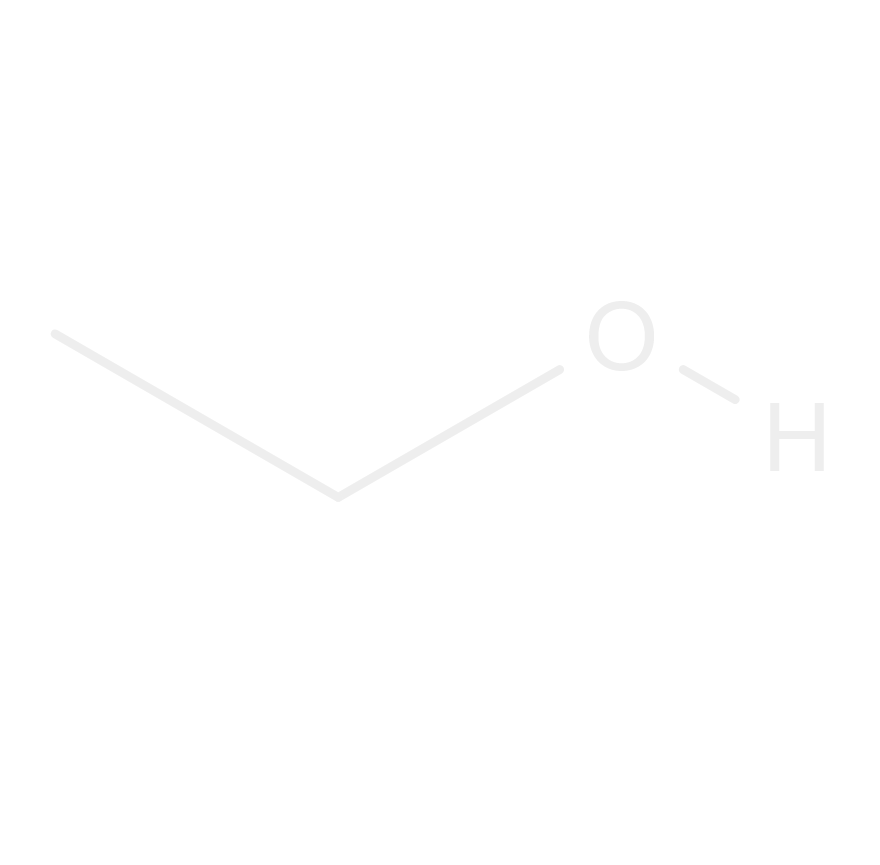
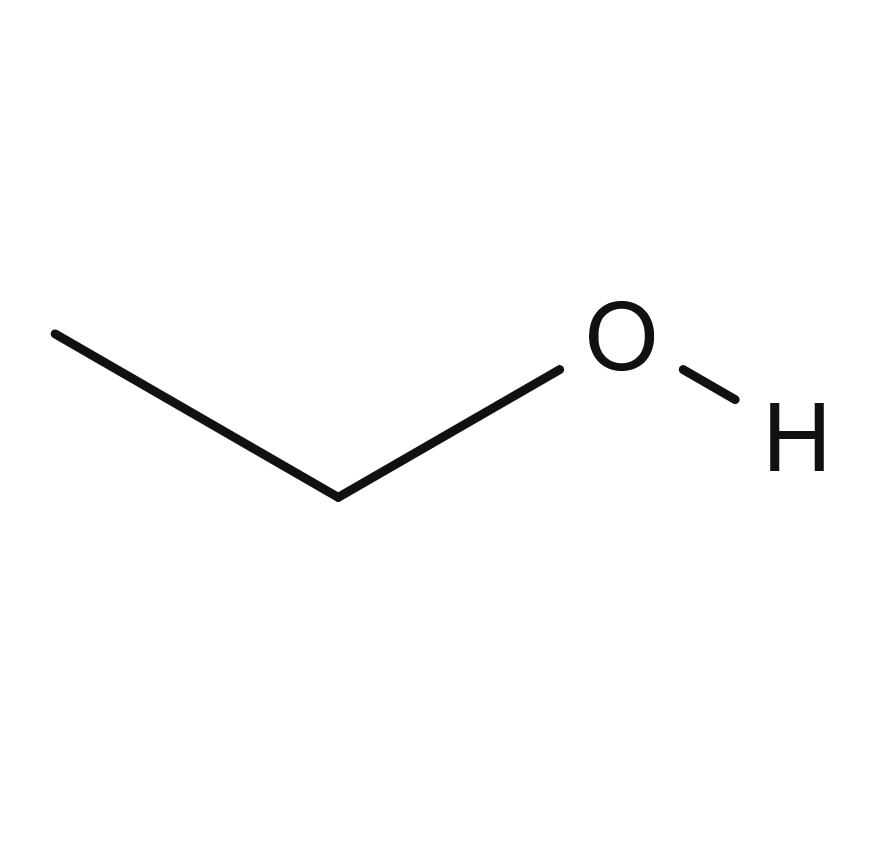
commit

diff --git a/index.html b/index.html
@@ -35,6 +35,14 @@
                     </tr>
                     <tr>
                         <td>
+                            <p><strong>Numeric ID:</strong></p>
+                        </td>
+                        <td>
+                            <p id="numeric_id"></p>
+                        </td>
+                    </tr>
+                    <tr>
+                        <td>
                             <p><strong>Chemical Formula:</strong></p>
                         </td>
                         <td>
@@ -51,10 +59,26 @@
                     </tr>
                     <tr>
                         <td>
-                            <p><strong>Standard State:</strong></p>
+                            <p><strong>Standard Phase:</strong></p>
                         </td>
                         <td>
-                            <p id="standard_state"></p>
+                            <p id="standard_phase"></p>
+                        </td>
+                    </tr>
+                    <tr>
+                        <td>
+                            <p><strong>Composition:</strong></p>
+                        </td>
+                        <td>
+                            <p id="composition"></p>
+                        </td>
+                    </tr>
+                    <tr>
+                        <td>
+                            <p><strong>Stability:</strong></p>
+                        </td>
+                        <td>
+                            <p id="stability"></p>
                         </td>
                     </tr>
                     <tr>
@@ -62,7 +86,11 @@
                     </tr>
                     <tr>
                         <td id="fire_diamond" colspan="2">
-                            <img alt="Fire Diamond" src="element/fire_diamond.png">
+                            <img alt="Fire Diamond" src="../element/fire_diamond.png">
+                            <p id="fire_diamond_health">3</p>
+                            <p id="fire_diamond_fire">2</p>
+                            <p id="fire_diamond_reactivity">2</p>
+                            <p id="fire_diamond_specific">OXY</p>
                         </td>
                     </tr>
                 </tbody>
@@ -72,21 +100,37 @@
             const params = new URLSearchParams(window.location.search);
             const chemical = params.get('chemical');
             const chemicalData = {
-                Ethanol: {
+                "Ethanol": {
                     common_names: 'Ethyl Alcohol',
+                    numeric_id: '1004000',
                     chemical_formula: 'C₂H₆O',
-                    image_path: 'structure/ethanol.png',
+                    image_path: '../structure/ethanol.png',
                     standard_amount: '9 mol',
-                    standard_state: 'Liquid'
+                    standard_phase: 'Liquid',
+                    composition: '6¹H; 2¹²C; ¹⁶O',
+                    stability: 'Stable'
+                },
+                "Ethanoic Acid": {
+                    common_names: 'Ethyl Alcohol',
+                    numeric_id: '1004000',
+                    chemical_formula: 'C₂H₆O',
+                    image_path: '../structure/ethanoic_acid.png',
+                    standard_amount: '9 mol',
+                    standard_phase: 'Liquid',
+                    composition: '6¹H; 2¹²C; ¹⁶O',
+                    stability: 'Stable'
                 }
             };
             if (chemical && chemicalData[chemical]) {
                 document.getElementById('name').textContent = chemical;
                 document.getElementById('structure').src = chemicalData[chemical].image_path;
+                document.getElementById('numeric_id').textContent = chemicalData[chemical].numeric_id;
                 document.getElementById('common_names').textContent = chemicalData[chemical].common_names;
                 document.getElementById('chemical_formula').textContent = chemicalData[chemical].chemical_formula;
                 document.getElementById('standard_amount').textContent = chemicalData[chemical].standard_amount;
-                document.getElementById('standard_state').textContent = chemicalData[chemical].standard_state;
+                document.getElementById('standard_phase').textContent = chemicalData[chemical].standard_phase;
+                document.getElementById('composition').textContent = chemicalData[chemical].composition;
+                document.getElementById('stability').textContent = chemicalData[chemical].stability;
                 const link = document.createElement('link');
                 link.rel = 'stylesheet';
                 link.href = '../style.css';

diff --git a/style.css b/style.css
@@ -33,6 +33,7 @@ strong {
 }
 #structure {
     max-width: 100%;
+    filter: invert(1);
 }
 .card th {
     color: #ffffff;
@@ -48,6 +49,33 @@ strong {
 #fire_diamond {
     text-align: center;
     padding: 5%;
+    position: relative;
+}
+#fire_diamond p {
+    font-size: 1.5rem;
+    font-weight: 600;
+    color: #2c2c2c;
+}
+#fire_diamond_health {
+    position: absolute;
+    top: 26%;
+    left: 37%;
+}
+#fire_diamond_fire {
+    position: absolute;
+    top: 10%;
+    left: 47%;
+}
+#fire_diamond_reactivity {
+    position: absolute;
+    top: 26%;
+    left: 58%;
+}
+#fire_diamond_specific {
+    position: absolute;
+    top: 40%;
+    left: 37%;
+    font-size: 1rem;
 }
 @media (max-width: 768px) {
     body {
